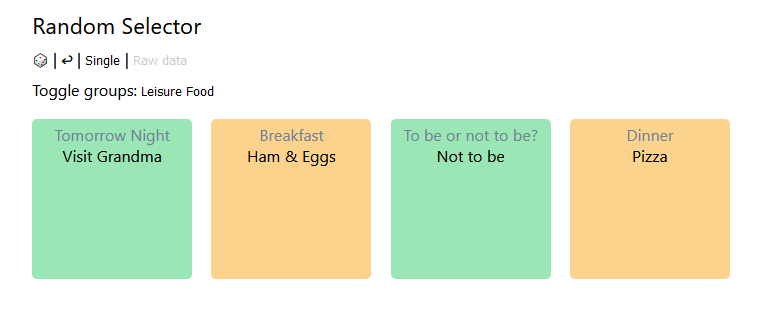
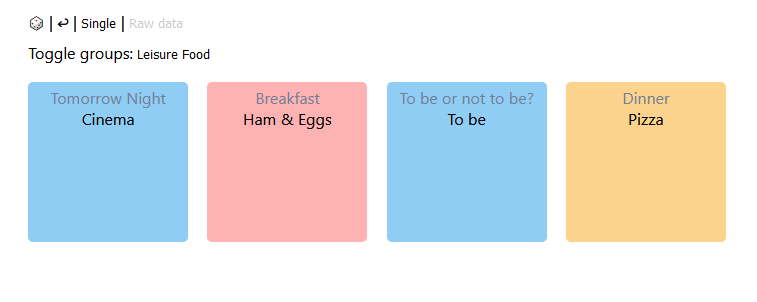
We don't need a heading

diff --git a/index.html b/index.html
@@ -9,7 +9,6 @@
     </head>
     <body>
         <div class="container">
-            <h1 class="appTitle">Random Selector</h1>
             <div class="mb-6">
                 <button id="diceButton" class="linkButton" title="Randomize all">🎲</button
                 >&nbsp;|&nbsp;<button id="resetButton" class="linkButton" title="Reset">↩</button

diff --git a/styles/style.css b/styles/style.css
@@ -82,12 +82,6 @@ body {
     text-align: center;
 }
 
-.appTitle {
-    font-size: 1.4rem;
-    margin-bottom: 0.5rem;
-    font-weight: normal;
-}
-
 #rawDataArea > pre {
     font-family: 'Courier New', Courier, monospace;
     font-size: 0.85rem;

diff --git a/userdata/custom-styles-example.css b/userdata/custom-styles-example.css
@@ -37,12 +37,6 @@ body {
     text-align: center;
 }
 
-.appTitle {
-    font-size: 1.4rem;
-    margin-bottom: 0.5rem;
-    font-weight: normal;
-}
-
 #rawDataArea > pre {
     font-family: 'Courier New', Courier, monospace;
     font-size: 0.85rem;
